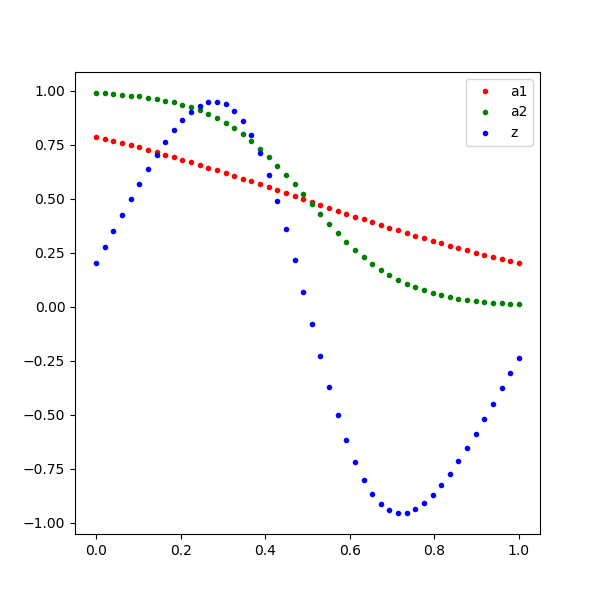
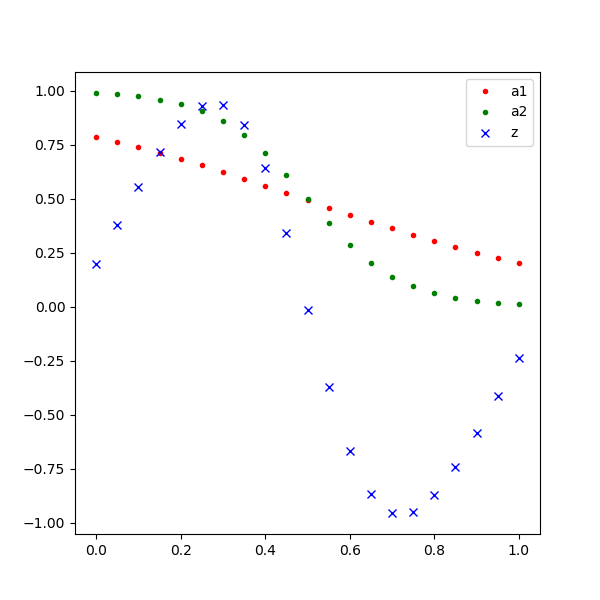
ss

diff --git a/B-教学案例与实践/B6-神经网络基本原理简明教程/SourceCode/ch09-NonLinearRegression/Level5_HowNNWorks.py b/B-教学案例与实践/B6-神经网络基本原理简明教程/SourceCode/ch09-NonLinearRegression/Level5_HowNNWorks.py
@@ -7,8 +7,8 @@ import matplotlib.pyplot as plt
 from HelperClass2.NeuralNet2 import *
 from HelperClass2.DataReader import *
 
-x_data_name = "../../Data/ch08.train.npz"
-y_data_name = "../../Data/ch08.test.npz"
+train_data_name = "../../Data/ch08.train.npz"
+test_data_name = "../../Data/ch08.test.npz"
 
 def ShowResult2D(net, title):
     count = 21
@@ -31,28 +31,28 @@ def ShowResult2D(net, title):
     
     fig = plt.figure(figsize=(6,6))
     p1,= plt.plot(TX,np.zeros((count,1)),'.',c='black')
-    p2,= plt.plot(TX,net.Z1[:,0],'+',c='r')
-    p3,= plt.plot(TX,net.A1[:,0],'.',c='r')
+    p2,= plt.plot(TX,net.Z1[:,0],'.',c='r')
+    p3,= plt.plot(TX,net.A1[:,0],'x',c='r')
     plt.legend([p1,p2,p3], ["x","z1","a1"])
     plt.grid()
     plt.show()
 
     fig = plt.figure(figsize=(6,6))
     p1,= plt.plot(TX,np.zeros((count,1)),'.',c='black')
-    p2,= plt.plot(TX,net.Z1[:,1],'+',c='g')
-    p3,= plt.plot(TX,net.A1[:,1],'.',c='g')
+    p2,= plt.plot(TX,net.Z1[:,1],'.',c='g')
+    p3,= plt.plot(TX,net.A1[:,1],'x',c='g')
     plt.legend([p1,p2,p3], ["x","z2","a2"])
     plt.show()
 
     fig = plt.figure(figsize=(6,6))
     p1,= plt.plot(TX,net.A1[:,0],'.',c='r')
     p2,= plt.plot(TX,net.A1[:,1],'.',c='g')
-    p3,= plt.plot(TX,net.Z2[:,0],'.',c='blue')
+    p3,= plt.plot(TX,net.Z2[:,0],'x',c='blue')
     plt.legend([p1,p2,p3], ["a1","a2","z"])
     plt.show()
 
 if __name__ == '__main__':
-    dataReader = DataReader(x_data_name, y_data_name)
+    dataReader = DataReader(train_data_name, test_data_name)
     dataReader.ReadData()
     dataReader.GenerateValidationSet()
 

diff --git a/B-教学案例与实践/B6-神经网络基本原理简明教程/SourceCode/ch09-NonLinearRegression/Level4_NN_Complex.py b/B-教学案例与实践/B6-神经网络基本原理简明教程/SourceCode/ch09-NonLinearRegression/Level4_NN_Complex.py
@@ -8,8 +8,8 @@ from mpl_toolkits.mplot3d import Axes3D
 from HelperClass2.NeuralNet2 import *
 from HelperClass2.DataReader import *
 
-x_data_name = "../../Data/ch09.train.npz"
-y_data_name = "../../Data/ch09.test.npz"
+train_data_name = "../../Data/ch09.train.npz"
+test_data_name = "../../Data/ch09.test.npz"
 
 def ShowResult(net, dataReader, title):
     # draw train data
@@ -24,7 +24,7 @@ def ShowResult(net, dataReader, title):
 #end def
 
 if __name__ == '__main__':
-    dataReader = DataReader(x_data_name, y_data_name)
+    dataReader = DataReader(train_data_name, test_data_name)
     dataReader.ReadData()
     dataReader.GenerateValidationSet()
 

diff --git a/B-教学案例与实践/B6-神经网络基本原理简明教程/SourceCode/ch09-NonLinearRegression/Level4_NN_Sin.py b/B-教学案例与实践/B6-神经网络基本原理简明教程/SourceCode/ch09-NonLinearRegression/Level4_NN_Sin.py
@@ -8,8 +8,8 @@ from mpl_toolkits.mplot3d import Axes3D
 from HelperClass2.NeuralNet2 import *
 from HelperClass2.DataReader import *
 
-x_data_name = "../../Data/ch08.train.npz"
-y_data_name = "../../Data/ch08.test.npz"
+train_data_name = "../../Data/ch08.train.npz"
+test_data_name = "../../Data/ch08.test.npz"
 
 def ShowResult(net, dataReader, title):
     # draw train data
@@ -24,7 +24,7 @@ def ShowResult(net, dataReader, title):
 #end def
 
 if __name__ == '__main__':
-    dataReader = DataReader(x_data_name, y_data_name)
+    dataReader = DataReader(train_data_name, test_data_name)
     dataReader.ReadData()
     dataReader.GenerateValidationSet()
 

diff --git a/B-教学案例与实践/B6-神经网络基本原理简明教程/SourceCode/ch09-NonLinearRegression/Level6_TuneParams.py b/B-教学案例与实践/B6-神经网络基本原理简明教程/SourceCode/ch09-NonLinearRegression/Level6_TuneParams.py
@@ -8,8 +8,8 @@ import matplotlib.pyplot as plt
 from HelperClass2.NeuralNet2 import *
 from HelperClass2.DataReader import *
 
-x_data_name = "../../Data/ch09.train.npz"
-y_data_name = "../../Data/ch09.test.npz"
+train_data_name = "../../Data/ch09.train.npz"
+test_data_name = "../../Data/ch09.test.npz"
 
 
 def train(hp, folder):
@@ -53,7 +53,7 @@ def try_hyperParameters(folder, n_hidden, batch_size, eta):
 
 if __name__ == '__main__':
   
-    dataReader = DataReader(x_data_name, y_data_name)
+    dataReader = DataReader(train_data_name, test_data_name)
     dataReader.ReadData()
     dataReader.GenerateValidationSet()
     

diff --git a/B-教学案例与实践/B6-神经网络基本原理简明教程/SourceCode/ch10-NonLinearBinaryClassification/sin2.py b/B-教学案例与实践/B6-神经网络基本原理简明教程/SourceCode/ch10-NonLinearBinaryClassification/sin2.py
@@ -1,0 +1,19 @@
+
+import numpy as np
+import matplotlib.pyplot as plt
+
+def create_data(count):
+    x1 = np.linspace(0,3.14,count)
+    noise = (np.random.random(count)-0.5)/4
+    y1 = np.sin(x1) + noise
+    plt.scatter(x1,y1)
+
+    x2 = np.linspace(0,3.14,count)
+    noise = (np.random.random(count)-0.5)/4
+    y2 = np.sin(x2) + noise + 0.65
+    plt.scatter(x2, y2)
+
+    plt.show()
+
+if __name__ == '__main__':
+    create_data(50)
